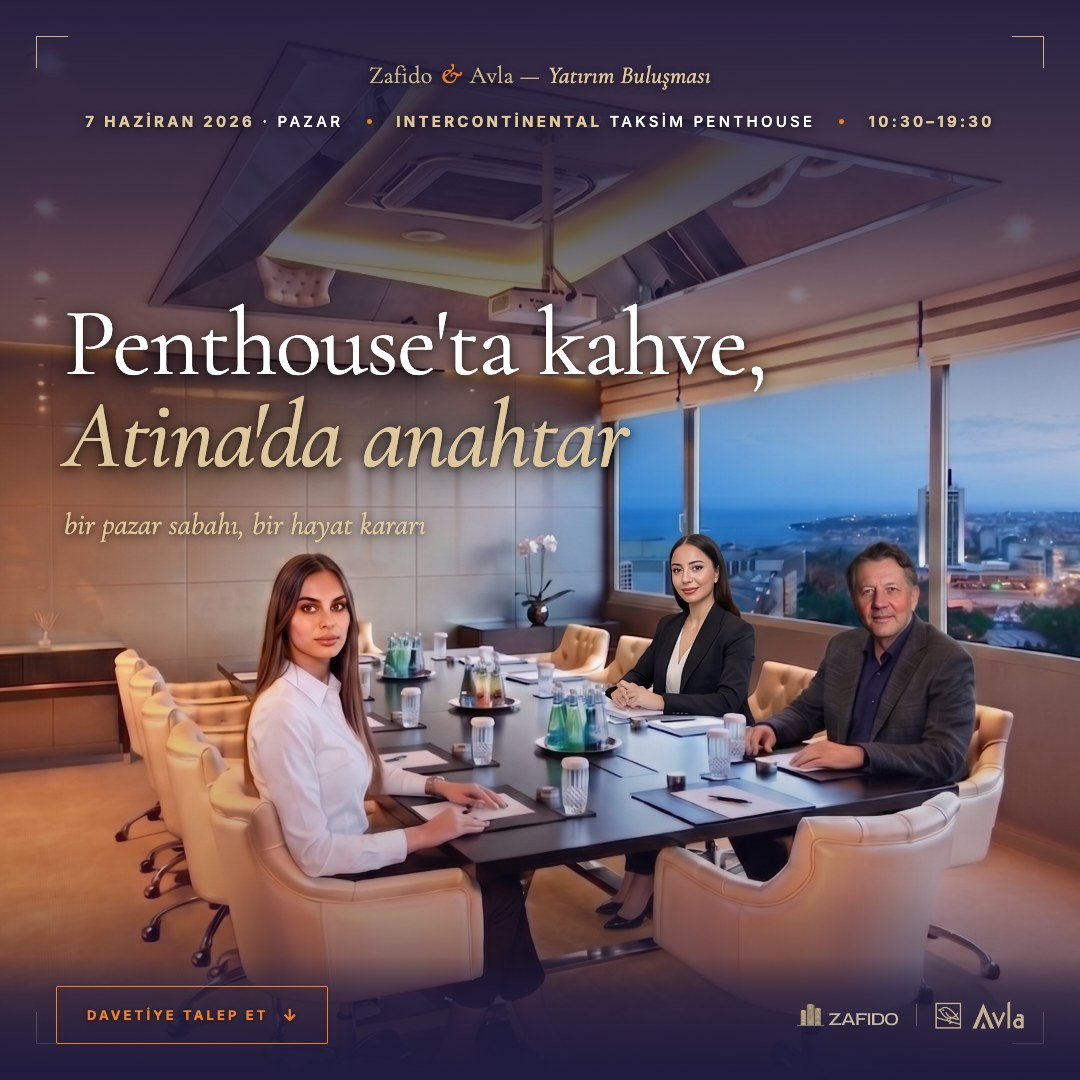
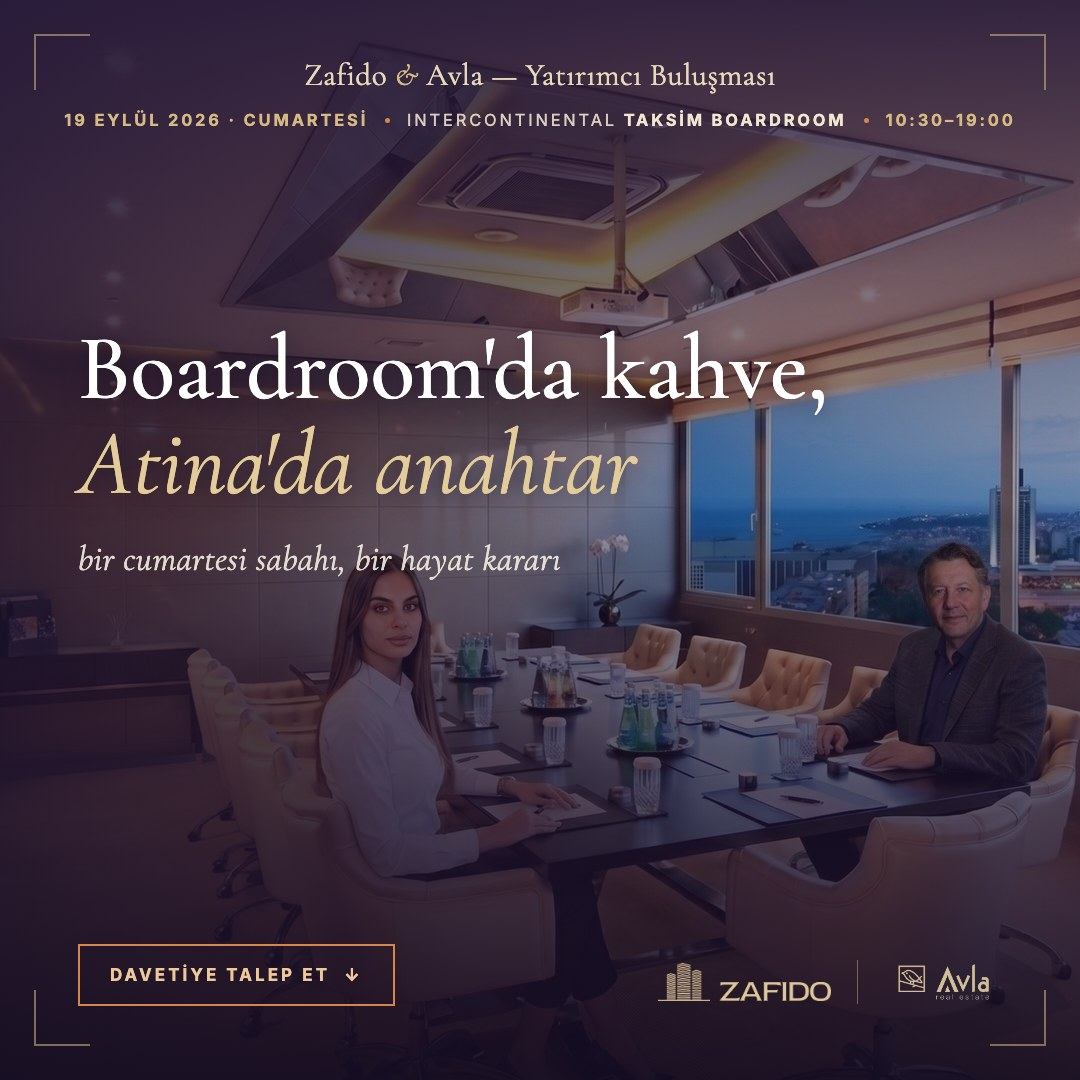
EN sayfa güncel TR sayfayla hizalandı
- Hero ve etkinlik kartı: 19 September 2026 · InterContinental Istanbul (Taksim) · Boardroom · 3 oturum
- A bloğu: beş katılımcı fotoğraflarıyla (Şilan Öz dâhil)
- B bloğu: gün akışı · C bloğu: format (30 clients, B2C)
- Banner Glyfada → Chalandri Central
- İşler: dört Zafido projesi künye şeridi ve kaynak notuyla
- Footer: Kolektif House + Palladium Tower + RAKEZ, harita 19 Eylül portföy haritasına,
  Diğer Sayfalar'da 19 September bağlantısı
- Yeni OG kapağı + ?v=19eylul cache-bust
- "exclusive" kelimesi sayfadan tamamen kaldırıldı (münhasırlık iddiası doğru değil)

diff --git a/index.html b/index.html
@@ -10,8 +10,8 @@
 <meta property="og:title" content="M. Sami Akbeniz · Avla Real Estate · Greece Golden Visa">
 <meta property="og:description" content="Avla — monthly Greece Golden Visa investor meetings in Istanbul. By invitation, one-on-one format, with a guest Greek developer every month.">
 <meta property="og:url" content="https://trusted-partner.avlarealestate.com/">
-<meta property="og:image" content="https://trusted-partner.avlarealestate.com/img/og-cover.jpg">
-<meta property="og:image:secure_url" content="https://trusted-partner.avlarealestate.com/img/og-cover.jpg">
+<meta property="og:image" content="https://trusted-partner.avlarealestate.com/img/og-cover.jpg?v=19eylul">
+<meta property="og:image:secure_url" content="https://trusted-partner.avlarealestate.com/img/og-cover.jpg?v=19eylul">
 <meta property="og:image:width" content="1080">
 <meta property="og:image:height" content="1080">
 <meta property="og:image:type" content="image/jpeg">
@@ -21,7 +21,7 @@
 <meta name="twitter:card" content="summary_large_image">
 <meta name="twitter:title" content="M. Sami Akbeniz · Avla Real Estate · Greece Golden Visa">
 <meta name="twitter:description" content="Monthly Greece Golden Visa investor meetings in Istanbul — by invitation, with a guest Greek developer every month.">
-<meta name="twitter:image" content="https://trusted-partner.avlarealestate.com/img/og-cover.jpg">
+<meta name="twitter:image" content="https://trusted-partner.avlarealestate.com/img/og-cover.jpg?v=19eylul">
 
 <link rel="icon" type="image/jpeg" href="./img/avla-bird.jpg">
 <link rel="apple-touch-icon" href="./img/avla-bird.jpg">
@@ -86,7 +86,7 @@
   "alternateName": "Avla Real Estate",
   "url": "https://www.avlarealestate.com/",
   "logo": "https://trusted-partner.avlarealestate.com/img/avla-logo.png",
-  "image": "https://trusted-partner.avlarealestate.com/img/og-cover.jpg",
+  "image": "https://trusted-partner.avlarealestate.com/img/og-cover.jpg?v=19eylul",
   "telephone": "+90-216-470-53-81",
   "email": "realestate@avla.com.tr",
   "founder": {"@id": "https://trusted-partner.avlarealestate.com/#sami"},
@@ -128,7 +128,7 @@
   "eventSchedule": {"@type": "Schedule", "repeatFrequency": "P1M", "scheduleTimezone": "Europe/Istanbul"},
   "location": {"@type": "City", "name": "Istanbul"},
   "organizer": {"@type": "Organization", "name": "Avla Real Estate", "url": "https://www.avlarealestate.com"},
-  "image": "https://trusted-partner.avlarealestate.com/img/og-cover.jpg",
+  "image": "https://trusted-partner.avlarealestate.com/img/og-cover.jpg?v=19eylul",
   "inLanguage": "en"
 }
 </script>
@@ -809,6 +809,12 @@ nav.bar{
   padding:14px 0;border-bottom:1px solid rgba(255,255,255,.10);
 }
 .pb-list li:last-child{border-bottom:0}
+.pb-list li.kisi-sat{grid-template-columns:78px 46px 1fr;gap:14px;align-items:center}
+.pb-list .foto{width:46px;height:46px;border-radius:50%;overflow:hidden;border:1px solid rgba(201,182,138,.4);
+  background:#fff;display:block}
+.pb-list .foto img{width:100%;height:100%;object-fit:cover;display:block}
+@media (max-width:560px){.pb-list li.kisi-sat{grid-template-columns:62px 40px 1fr;gap:10px}
+  .pb-list .foto{width:40px;height:40px}}
 .pb-list .role{
   font-size:10px;letter-spacing:.26em;text-transform:uppercase;color:var(--orange);font-weight:700;
 }
@@ -876,14 +882,14 @@ nav.bar{
   position:relative;overflow:hidden;background:var(--ink);color:#fff;
   border-radius:2px;
   display:flex;flex-direction:column;
-  min-height:520px;
+  min-height:560px;
 }
 .work-card .work-img{position:absolute;inset:0;z-index:1}
 .work-card .work-img img{width:100%;height:100%;object-fit:cover;transition:transform 1s ease}
 .work-card:hover .work-img img{transform:scale(1.05)}
 .work-card::after{
   content:"";position:absolute;inset:0;z-index:2;
-  background:linear-gradient(180deg, rgba(15,38,71,0) 0%, rgba(15,38,71,.05) 45%, rgba(10,27,52,.55) 78%, rgba(10,27,52,.78) 100%);
+  background:linear-gradient(180deg, rgba(15,38,71,0) 0%, rgba(15,38,71,.06) 34%, rgba(11,29,55,.58) 62%, rgba(8,22,44,.9) 84%, rgba(8,22,44,.95) 100%);
 }
 .work-card .work-body{
   position:relative;z-index:3;margin-top:auto;padding:28px 28px 26px;
@@ -905,6 +911,24 @@ nav.bar{
 }
 .work-card .work-loc::before{content:"";width:18px;height:1px;background:var(--gold-bright)}
 
+.work-card .work-spec{
+  position:relative;z-index:3;margin-top:16px;padding-top:14px;
+  border-top:1px solid rgba(255,255,255,.2);
+  display:grid;grid-template-columns:repeat(4,1fr);
+}
+.work-card .work-spec > div{padding:0 11px;border-left:1px solid rgba(255,255,255,.16)}
+.work-card .work-spec > div:first-child{padding-left:0;border-left:0}
+.work-card .work-spec .l{font-size:8.5px;letter-spacing:.2em;text-transform:uppercase;color:rgba(255,255,255,.58);line-height:1.3}
+.work-card .work-spec .v{font-size:12.5px;color:#fff;margin-top:5px;line-height:1.25;letter-spacing:.01em;text-shadow:0 1px 4px rgba(0,0,0,.7)}
+.work-card .work-spec .v.g{color:var(--gold-bright)}
+.works .kunye-not{
+  margin-top:22px;font-size:11.5px;line-height:1.7;color:var(--ink-55);
+  padding-top:16px;border-top:1px solid var(--ink-12);max-width:78ch;
+}
+@media (max-width:1080px){
+  .work-card .work-spec{grid-template-columns:1fr 1fr;row-gap:12px}
+  .work-card .work-spec > div:nth-child(2n+1){padding-left:0;border-left:0}
+}
 .works .first{grid-column:span 1;grid-row:span 2;min-height:0}
 
 @media (max-width:1080px){
@@ -1396,10 +1420,10 @@ posthog.init('phc_v98y5K8fmzdZsQmyqGAQ92oK73PsaxyVrXSwaYi86Cjp', {
       <span class="last">Akbeniz</span>
     </h1>
     <div class="hero-event">
-      <span class="he-eye">Monthly Investor Meetings</span>
+      <span class="he-eye">19 September 2026 · Saturday</span>
       <p class="he-title">Greece Golden Visa <em>Investment Meeting</em></p>
       <p class="he-sub">Let's Find the Right Investment for You, Together</p>
-      <p class="he-info">Every month in Istanbul · By invitation · One-on-one meeting format</p>
+      <p class="he-info">InterContinental Istanbul (Taksim) · 10:30 – 19:00</p>
     </div>
     <div class="hero-actions" style="gap: 24px; margin: 36px 0px 0px">
       <a href="#davet" class="btn btn-or" style="margin: 0px; border-width: 1px">Reserve Your Spot <span class="arrow">→</span></a>
@@ -1525,23 +1549,22 @@ posthog.init('phc_v98y5K8fmzdZsQmyqGAQ92oK73PsaxyVrXSwaYi86Cjp', {
         </div>
       </div>
 
-      <div class="event-eyebrow">MONTHLY · BY INVITATION</div>
-      <h3 class="event-title">Investor <em>Meetings</em></h3>
-      <p class="event-sub">Greece Golden Visa · Avla Real Estate</p>
+      <div class="event-eyebrow">19 SEPTEMBER 2026 · BY INVITATION</div>
+      <h3 class="event-title">Investor <em>Meeting</em></h3>
+      <p class="event-sub">Greece Golden Visa · Avla Real Estate <span style="opacity:.75">×</span> Zafido Holding Hellas</p>
 
       <div class="event-meta">
         <div>
-          <div class="k">Frequency</div>
-          <div class="v">At least once a month<br><em>Dates announced to invitees</em></div>
+          <div class="k">Date</div>
+          <div class="v">Saturday, 19 September 2026<br><em>10:30 — 19:00 · 3 sessions</em></div>
         </div>
         <div>
           <div class="k">Venue</div>
-          <div class="v">Istanbul<br><em style="white-space:nowrap">Premium hotel meeting rooms</em></div>
+          <div class="v">InterContinental Istanbul<br><em style="white-space:nowrap">Taksim · Boardroom</em></div>
         </div>
       </div>
-
-      <div class="event-cap">
-        <em>Limited seats · by invitation · one-on-one meetings — reserve your place</em>
+<div class="event-cap">
+        <em>Sessions at 11:00 · 14:00 · 17:00 — the developer is at the table and meetings are one-on-one. Seats are limited.</em>
       </div>
 
       <div class="event-actions">
@@ -1550,6 +1573,7 @@ posthog.init('phc_v98y5K8fmzdZsQmyqGAQ92oK73PsaxyVrXSwaYi86Cjp', {
           <svg viewBox="0 0 24 24" width="18" height="18" fill="currentColor" aria-hidden="true"><path d="M6.62 10.79a15.05 15.05 0 0 0 6.59 6.59l2.2-2.2a1 1 0 0 1 1.02-.24c1.12.37 2.33.57 3.57.57a1 1 0 0 1 1 1V20a1 1 0 0 1-1 1A17 17 0 0 1 3 4a1 1 0 0 1 1-1h3.5a1 1 0 0 1 1 1c0 1.24.2 2.45.57 3.57a1 1 0 0 1-.24 1.02l-2.21 2.2z"/></svg>
           <span>Call Now</span>
         </a>
+        <a href="https://19-eylul.avlarealestate.com/en/" target="_blank" rel="noopener" class="btn btn-ghost" data-cta="event_19eylul">19 September Page <span class="arrow">→</span></a>
       </div>
     </div><!-- /.event-card -->
     </div><!-- /.event-col -->
@@ -1566,23 +1590,32 @@ posthog.init('phc_v98y5K8fmzdZsQmyqGAQ92oK73PsaxyVrXSwaYi86Cjp', {
         <div class="pb">
           <span class="pb-eyebrow"><span class="pb-num">A</span>Attendees</span>
           <ul class="pb-list">
-            <li><span class="role">Avla</span><span class="who">M. Sami Akbeniz <em>· Co-Founder</em></span></li>
-            <li><span class="role">Avla</span><span class="who">Avla Golden Visa Advisors</span></li>
-            <li><span class="role">Guest</span><span class="who">Guest Developer of the Month <em>· project team</em></span></li>
+            <li class="kisi-sat"><span class="role">Avla</span><span class="foto"><img src="./img/kisi-sami.jpg" alt="M. Sami Akbeniz" loading="lazy" decoding="async"></span><span class="who">M. Sami Akbeniz <em>· Co-Founder</em></span></li>
+            <li class="kisi-sat"><span class="role">Avla</span><span class="foto"><img src="./img/kisi-melih.jpg" alt="A. Melih Ünver" loading="lazy" decoding="async"></span><span class="who">A. Melih Ünver</span></li>
+            <li class="kisi-sat"><span class="role">Avla</span><span class="foto"><img src="./img/kisi-alicia.jpg" alt="Alicia Karavani" loading="lazy" decoding="async"></span><span class="who">Alicia Karavani</span></li>
+            <li class="kisi-sat"><span class="role">Guest</span><span class="foto"><img src="./img/kisi-katerina.jpg" alt="Katerina Grigoriou" loading="lazy" decoding="async"></span><span class="who">Katerina Grigoriou <em>· Zafido Holding Hellas</em></span></li>
+            <li class="kisi-sat"><span class="role">Guest</span><span class="foto"><img src="./img/kisi-silan.jpg" alt="Şilan Öz" loading="lazy" decoding="async"></span><span class="who">Şilan Öz <em>· Zafido Holding Hellas</em></span></li>
           </ul>
         </div>
 
         <div class="pb">
-          <span class="pb-eyebrow"><span class="pb-num">B</span>Program &amp; Format</span>
-          <p class="pb-p">
-            We host our investor meetings <b>at least once every month</b> with invited guests. The room hosts up to <b>9 clients</b> at a time; meetings run in a <b>B2C</b> format — Avla specialists present Greece Golden Visa-focused real estate directly and provide one-on-one advisory.
-          </p>
+          <span class="pb-eyebrow"><span class="pb-num">B</span>Programme · 19 September</span>
+          <ul class="pb-list">
+            <li><span class="role">10:30</span><span class="who">Doors open <em>· welcome and file opening</em></span></li>
+            <li><span class="role">11:00</span><span class="who">First session</span></li>
+            <li><span class="role">14:00</span><span class="who">Second session <em>· same content</em></span></li>
+            <li><span class="role">17:00</span><span class="who">Third session <em>· same content</em></span></li>
+            <li><span class="role">Between</span><span class="who">One-on-one meetings <em>· after each session, at separate tables</em></span></li>
+            <li><span class="role">19:00</span><span class="who">Close <em>· a personal selection page for each completed meeting</em></span></li>
+            <li><span class="role">Room</span><span class="who">Boardroom <em>· InterContinental Istanbul (Taksim)</em></span></li>
+          </ul>
+          <p class="pb-p">All three sessions carry the same content; simply pick the time that suits you.</p>
         </div>
 
         <div class="pb">
-          <span class="pb-eyebrow"><span class="pb-num">C</span>Guest Developers</span>
+          <span class="pb-eyebrow"><span class="pb-num">C</span>Format</span>
           <p class="pb-p">
-            Each month we invite <b>at least one or two</b> of Greece's leading developers as guests. The guest developer presents their projects on terms exclusive to our meeting; our clients get <b>B2C meetings</b> and one-on-one discussions with the developer.
+            The room hosts up to <b>30 clients</b> at a time and meetings run in a <b>B2C</b> format — Avla specialists speak to you directly, with no intermediary. Our guest developer <b>Zafido Holding Hellas</b> presents its projects on terms set for this meeting; you sit at the same table with them. <b>Attendance is free of charge and seats are limited.</b>
           </p>
         </div>
       </div>
@@ -1594,14 +1627,14 @@ posthog.init('phc_v98y5K8fmzdZsQmyqGAQ92oK73PsaxyVrXSwaYi86Cjp', {
 
 <!-- ============ GLYFADA LAUNCH CTA ============ -->
 <section class="glifada-cta-section" data-screen-label="04b Glyfada launch">
-  <a class="glifada-cta" href="https://www.youtube.com/shorts/3ms1_fwtoRk" target="_blank" rel="noopener">
-    <div class="glifada-cta-bg" style="background-image:url('./img/glifada-lansman-thumb.jpg')"></div>
+  <a class="glifada-cta" href="https://19-eylul.avlarealestate.com/en/#projeler" target="_blank" rel="noopener">
+    <div class="glifada-cta-bg" style="background-image:url('./img/pr-chalandri-1.jpg')"></div>
     <div class="glifada-cta-overlay"></div>
     <div class="glifada-cta-text">
-      <div class="glifada-cta-label">Glyfada Launch · Surprise</div>
-      <h3 class="glifada-cta-title">Glyfada <em>By the Sea</em></h3>
-      <div class="glifada-cta-sub">This month's guest — Zafido Holding Hellas' launch, exclusive to our meeting</div>
-      <div class="glifada-cta-arrow">Watch the teaser →</div>
+      <div class="glifada-cta-label">19 September Launch · For Avla Clients</div>
+      <h3 class="glifada-cta-title">Chalandri <em>Central</em></h3>
+      <div class="glifada-cta-sub">A two-building new development in North Athens — not yet on the market, all 45 apartments held by Avla</div>
+      <div class="glifada-cta-arrow">See the project →</div>
     </div>
   </a>
 </section>
@@ -1622,34 +1655,59 @@ posthog.init('phc_v98y5K8fmzdZsQmyqGAQ92oK73PsaxyVrXSwaYi86Cjp', {
     <div class="head">
       <div>
         <span class="eyebrow"><span class="mark">●</span>&nbsp;&nbsp;Selected by Avla</span>
-        <h2>Catch the right Athens neighborhoods <em>at the right times</em>.</h2>
+        <h2>The <em>four projects</em> on the table on 19 September.</h2>
       </div>
       <p class="meta">
-        These two highlights from Avla's Greece portfolio meet the Golden Visa threshold — both suitable for investment, residence, and hybrid use.
+        All four come from the portfolio of our guest developer Zafido Holding Hellas, with Avla handling the sales. Price list, area report and feasibility are ready for each.
       </p>
     </div>
 
     <div class="works-grid">
-      <a class="work-card" href="https://south.moschato.avlarealestate.com/" target="_blank" rel="noopener">
-        <div class="work-img"><img src="./img/moschato-evening.jpg" alt="SOUTH — Moschato, Athens · Eleftheriou Venizelou"></div>
+      <a class="work-card" href="https://19-eylul.avlarealestate.com/en/#projeler" target="_blank" rel="noopener">
+        <div class="work-img"><img src="./img/pr-chalandri-1.jpg" loading="lazy" decoding="async" alt="Chalandri Central · North Athens"></div>
         <div class="work-body">
-          <span class="chip or">Active Launch</span>
-          <h3 class="work-title">South <em>Moschato</em></h3>
-          <p class="work-sub">5 min to central Athens, 1.8 km to the coast. 2nd &amp; 3rd floor launch: 18 new apartments from €258K.</p>
-          <div class="work-loc">Moschato · Athens</div>
+          <span class="chip or">Launch for Avla Clients</span>
+          <h3 class="work-title">Chalandri <em>Central</em></h3>
+          <p class="work-sub">A two-building new development, not yet on the market. Parking (except B block first floor), energy class A, 3% annual rental guarantee for 3 years.</p>
+          <div class="work-spec"><div><div class="l">Price</div><div class="v g">€267 – 400K</div></div><div><div class="l">Units</div><div class="v">45 · all held by Avla</div></div><div><div class="l">Net area</div><div class="v">38.3 – 57.3 m²</div></div><div><div class="l">Handover</div><div class="v">2028 · Q2</div></div></div>
+          <div class="work-loc">Chalandri · North Athens</div>
         </div>
       </a>
 
-      <a class="work-card" href="https://www.avlarealestate.com/en/properties/the-hera-athens-sepolia-golden-visa-yatirim-firsati" target="_blank" rel="noopener">
-        <div class="work-img"><img src="./img/op-hera.jpg" alt="The Hera Athens — central Athens, Golden Visa project"></div>
+      <a class="work-card" href="https://www.avlarealestate.com/properties/kallithea-boutique-one-bedroom-residences-near-snfcc" target="_blank" rel="noopener">
+        <div class="work-img"><img src="./img/pr-snfcc-1.jpg" loading="lazy" decoding="async" alt="Boutique residences near the SNFCC · Kallithea"></div>
         <div class="work-body">
-          <span class="chip">Investment Grade</span>
-          <h3 class="work-title">The Hera <em>Athens</em></h3>
-          <p class="work-sub">Central Athens selection, Golden Visa approved, from Avla's portfolio.</p>
-          <div class="work-loc">Central Athens · Athens</div>
+          <span class="chip">Boutique · 16 Units</span>
+          <h3 class="work-title">SNFCC <em>Residences</em></h3>
+          <p class="work-sub">A 16-unit boutique building within walking distance of the cultural centre; all one-bedroom, each with storage. Two second-floor apartments are held for you.</p>
+          <div class="work-spec"><div><div class="l">Price</div><div class="v g">€279 – 282K</div></div><div><div class="l">Units</div><div class="v">2 · held for you</div></div><div><div class="l">Net area</div><div class="v">40.8 – 41.3 m²</div></div><div><div class="l">Handover</div><div class="v">2028 · Q2</div></div></div>
+          <div class="work-loc">Kallithea · near the SNFCC</div>
+        </div>
+      </a>
+
+      <a class="work-card" href="https://www.avlarealestate.com/properties/south-glyfada-ano-glyfada-athens-riviera-golden-visa" target="_blank" rel="noopener">
+        <div class="work-img"><img src="./img/pr-glyfada-1.jpg" loading="lazy" decoding="async" alt="South Glyfada · Athens Riviera"></div>
+        <div class="work-body">
+          <span class="chip">33 Units Available</span>
+          <h3 class="work-title">South <em>Glyfada</em></h3>
+          <p class="work-sub">On the upper slope of the Riviera, within walking distance of the sea and of central Glyfada. A range running from studios to generous garden floors.</p>
+          <div class="work-spec"><div><div class="l">Price</div><div class="v g">from €261K</div></div><div><div class="l">Units</div><div class="v">33 available</div></div><div><div class="l">Net area</div><div class="v">from 34.8 m²</div></div><div><div class="l">Handover</div><div class="v">Not yet announced</div></div></div>
+          <div class="work-loc">Ano Glyfada · Athens Riviera</div>
+        </div>
+      </a>
+
+      <a class="work-card" href="https://www.avlarealestate.com/properties/el-venizelou-290-kallithea" target="_blank" rel="noopener">
+        <div class="work-img"><img src="./img/pr-kallithea-1.jpg" loading="lazy" decoding="async" alt="El. Venizelou · Kallithea"></div>
+        <div class="work-body">
+          <span class="chip or">Last 2 Duplexes</span>
+          <h3 class="work-title">El. <em>Venizelou</em></h3>
+          <p class="work-sub">On Kallithea's main artery, close to the metro and the coastal axis. Twenty of the 22 apartments are gone; the remaining two duplexes sit on floors 6–7.</p>
+          <div class="work-spec"><div><div class="l">Price</div><div class="v g">€356 – 358K</div></div><div><div class="l">Units</div><div class="v">Last 2 duplexes</div></div><div><div class="l">Net area</div><div class="v">52.8 – 54.1 m²</div></div><div><div class="l">Handover</div><div class="v">2028 · Q2</div></div></div>
+          <div class="work-loc">Kallithea · main artery</div>
         </div>
       </a>
     </div>
+    <p class="kunye-not">Prices, availability and measurements are taken from the developer's list dated <b>16 September 2026</b>; measurements may vary by ±3%. Net area is the enclosed interior and excludes balconies and parking. Handover dates follow the schedule written into each contract, and for South Glyfada no date has been announced yet. Golden Visa eligibility is determined apartment by apartment, confirmed by an independent Greek lawyer.</p>
   </div>
 </section>
 
@@ -1875,7 +1933,7 @@ posthog.init('phc_v98y5K8fmzdZsQmyqGAQ92oK73PsaxyVrXSwaYi86Cjp', {
         <ul>
           <li class="office">
             <span class="city">Istanbul</span>
-            <span class="addr">Kolektif House Moda · Kadıköy<br>+90 216 470 53 81</span>
+            <span class="addr">Kolektif House Moda · Kadıköy<br>Palladium Tower · Ataşehir<br>+90 216 470 53 81</span>
           </li>
           <li class="office">
             <span class="city">Athens</span>
@@ -1883,7 +1941,7 @@ posthog.init('phc_v98y5K8fmzdZsQmyqGAQ92oK73PsaxyVrXSwaYi86Cjp', {
           </li>
           <li class="office">
             <span class="city">Dubai</span>
-            <span class="addr">Office setup<br>in preparation.</span>
+            <span class="addr">RAKEZ Free Zone<br>Avla International Properties LLC</span>
           </li>
         </ul>
       </div>
@@ -1904,16 +1962,16 @@ posthog.init('phc_v98y5K8fmzdZsQmyqGAQ92oK73PsaxyVrXSwaYi86Cjp', {
         <ul>
           <li><a href="https://yunanistan-golden-visa.avlarealestate.com/" target="_blank" rel="noopener">Golden Visa Program</a></li>
           <li><a href="https://gv.selection.avlarealestate.com/" target="_blank" rel="noopener">Golden Visa Selection</a></li>
-          <li><a href="https://south.moschato.avlarealestate.com/?v=2345" target="_blank" rel="noopener">South · Moschato</a></li>
+          <li><a href="https://19-eylul.avlarealestate.com/en/" target="_blank" rel="noopener">19 September · Investor Meeting</a></li>
           <li><a href="https://www.avlarealestate.com/en/properties/the-hera-athens-sepolia-golden-visa-yatirim-firsati" target="_blank" rel="noopener">The Hera · Athens</a></li>
           <li><a href="https://www.avlarealestate.com/so/7ePvASSBf?languageTag=en" target="_blank" rel="noopener">Avla Quick Presentation</a></li>
         </ul>
       </div>
 
-      <a class="foot-map" href="https://gv.selection.avlarealestate.com/" target="_blank" rel="noopener" aria-label="Athens · Selection — See on map">
+      <a class="foot-map" href="https://19-eylul.avlarealestate.com/en/harita.html" target="_blank" rel="noopener" aria-label="Athens · Selection — See on map">
         <img src="./img/avla-map-cover.png" alt="Avla portfolio · Athens projects map" style="margin: 0px">
         <span class="foot-map-cap">
-          <span class="k">Athens · Selection</span>
+          <span class="k">Portfolio Map · 103 projects</span>
           <span class="v">View on map <span class="arrow">→</span></span>
         </span>
       </a>
